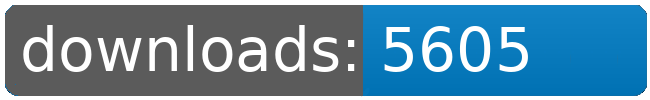
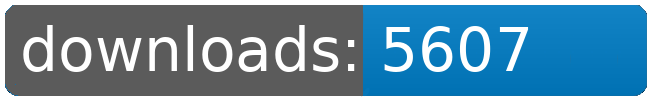
dl log written

Changed region(s): [[0.7692, 0.27, 0.8308, 0.72]]

diff --git a/README.md b/README.md
@@ -21,8 +21,8 @@
 		<td>5493</td>
 		<td>5531</td>
 		<td>5577</td>
-		<td>5605</td>
-		<td>+ 28</td>
+		<td>5607</td>
+		<td>+ 30</td>
 	</tr>
 	<tr>
 		<td>Factory.Outlets</td>
@@ -109,8 +109,8 @@
 		<td></td>
 		<td></td>
 		<td></td>
-		<td>44196</td>
-		<td>139</td>
+		<td>44198</td>
+		<td>141</td>
 	</tr>
 </table>
 </sub></sup>
@@ -157,8 +157,8 @@
 		<td>5493</td>
 		<td>5531</td>
 		<td>5577</td>
-		<td>5605</td>
-		<td>+ 28</td>
+		<td>5607</td>
+		<td>+ 30</td>
 	</tr>
 	<tr>
 		<td>Korunak.Defense.Drones</td>
@@ -223,8 +223,8 @@
 		<td></td>
 		<td></td>
 		<td></td>
-		<td>44196</td>
-		<td>139</td>
+		<td>44198</td>
+		<td>141</td>
 	</tr>
 </table>
 </sub></sup>
